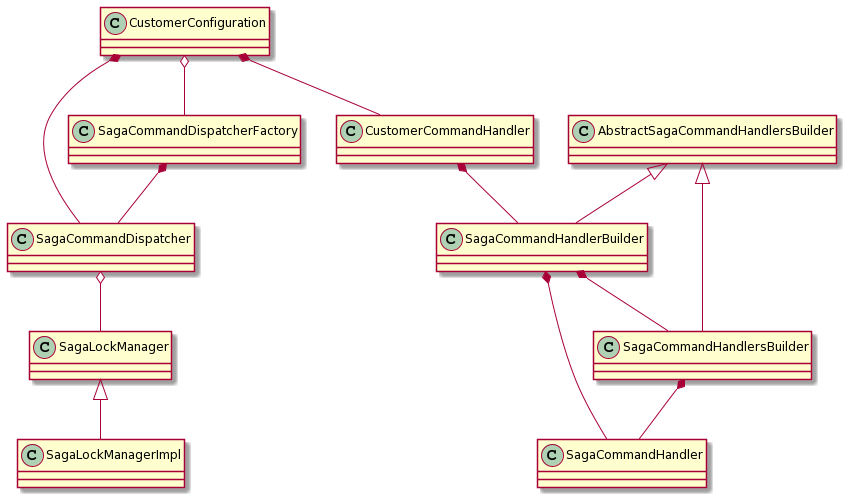
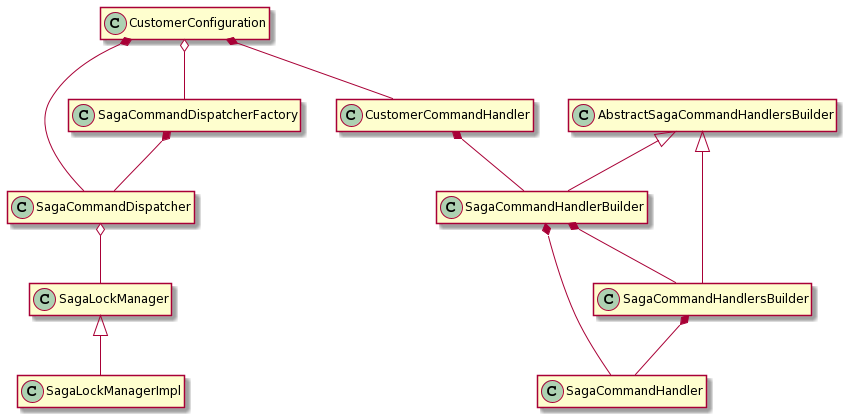
Added reactive participant. Improved diagrams.

diff --git a/eventuate-tram-sagas-reactive-participant/src/main/java/io/eventuate/tram/sagas/reactive/participant/ReactiveSagaCommandDispatcher.java b/eventuate-tram-sagas-reactive-participant/src/main/java/io/eventuate/tram/sagas/reactive/participant/ReactiveSagaCommandDispatcher.java
@@ -1,0 +1,141 @@
+package io.eventuate.tram.sagas.reactive.participant;
+
+import io.eventuate.tram.commands.common.CommandMessageHeaders;
+import io.eventuate.tram.commands.consumer.CommandHandlerParams;
+import io.eventuate.tram.commands.consumer.CommandMessage;
+import io.eventuate.tram.commands.consumer.PathVariables;
+import io.eventuate.tram.consumer.common.reactive.ReactiveMessageConsumer;
+import io.eventuate.tram.messaging.common.Message;
+import io.eventuate.tram.messaging.producer.MessageBuilder;
+import io.eventuate.tram.reactive.commands.consumer.ReactiveCommandDispatcher;
+import io.eventuate.tram.reactive.commands.consumer.ReactiveCommandHandler;
+import io.eventuate.tram.reactive.commands.consumer.ReactiveCommandHandlers;
+import io.eventuate.tram.reactive.messaging.producer.common.ReactiveMessageProducer;
+import io.eventuate.tram.sagas.common.*;
+import io.eventuate.tram.sagas.participant.SagaReplyMessage;
+import io.eventuate.tram.sagas.reactive.common.ReactiveSagaLockManager;
+import org.reactivestreams.Publisher;
+import reactor.core.publisher.Mono;
+
+import java.util.Collections;
+import java.util.List;
+import java.util.Optional;
+import java.util.stream.Collectors;
+
+public class ReactiveSagaCommandDispatcher extends ReactiveCommandDispatcher {
+
+  private ReactiveSagaLockManager sagaLockManager;
+
+  public ReactiveSagaCommandDispatcher(String commandDispatcherId,
+                                       ReactiveCommandHandlers target,
+                                       ReactiveMessageConsumer messageConsumer,
+                                       ReactiveMessageProducer messageProducer,
+                                       ReactiveSagaLockManager sagaLockManager) {
+    super(commandDispatcherId, target, messageConsumer, messageProducer);
+
+    this.sagaLockManager = sagaLockManager;
+  }
+
+  @Override
+  public Publisher<?> messageHandler(Message message) {
+    if (isUnlockMessage(message)) {
+      String sagaId = getSagaId(message);
+      String target = message.getRequiredHeader(CommandMessageHeaders.RESOURCE);
+      return sagaLockManager.unlock(sagaId, target).map(m -> super.messageHandler(message));
+    } else {
+        return Mono
+                .from(super.messageHandler(message))
+                .map(o -> (Object) o)
+                .onErrorResume(StashMessageRequiredException.class, e -> {
+                  String sagaType = getSagaType(message);
+                  String sagaId = getSagaId(message);
+                  String target = e.getTarget();
+                  return sagaLockManager.stashMessage(sagaType, sagaId, target, message);
+                });
+    }
+  }
+
+  private String getSagaId(Message message) {
+    return message.getRequiredHeader(SagaCommandHeaders.SAGA_ID);
+  }
+
+  private String getSagaType(Message message) {
+    return message.getRequiredHeader(SagaCommandHeaders.SAGA_TYPE);
+  }
+
+
+  @Override
+  protected Publisher<List<Message>> invoke(ReactiveCommandHandler commandHandler, CommandMessage cm, CommandHandlerParams commandHandlerParams) {
+    Optional<String> lockedTarget = Optional.empty();
+
+    Mono<List<Message>> result = Mono.just(Collections.emptyList());
+
+    if (commandHandler instanceof ReactiveSagaCommandHandler) {
+      ReactiveSagaCommandHandler sch = (ReactiveSagaCommandHandler) commandHandler;
+      if (sch.getPreLock().isPresent()) {
+        LockTarget lockTarget = sch.getPreLock().get().apply(cm, new PathVariables(commandHandlerParams.getPathVars()));
+        Message message = cm.getMessage();
+        String sagaType = getSagaType(message);
+        String sagaId = getSagaId(message);
+        String target = lockTarget.getTarget();
+        lockedTarget = Optional.of(target);
+
+        result = result.flatMap(messages ->
+          sagaLockManager
+                  .claimLock(sagaType, sagaId, target)
+                  .flatMap(locked -> {
+                    if (!locked) return Mono.error(new StashMessageRequiredException(target));
+                    else return Mono.just(messages);
+                  }));
+      }
+    }
+
+    result = result.flatMap(messages -> Mono.from(super.invoke(commandHandler, cm, commandHandlerParams)));
+
+    if (lockedTarget.isPresent())
+      return addLockedHeader(result, lockedTarget.get());
+    else {
+      Mono<LockTarget> lock = getLock(result);
+
+      return result.flatMap(messages ->
+        lock
+                .flatMap(lt -> {
+                  Message message = cm.getMessage();
+                  String sagaType = getSagaType(message);
+                  String sagaId = getSagaId(message);
+                  return sagaLockManager
+                          .claimLock(sagaType, sagaId, lt.getTarget())
+                          .flatMap(locked -> {
+                            if (locked) return addLockedHeader(Mono.just(messages), lt.getTarget());
+                            else return Mono.error(new RuntimeException("Cannot claim lock"));
+                          });
+                })
+                .switchIfEmpty(Mono.just(messages)));
+    }
+  }
+
+  private Mono<LockTarget> getLock(Mono<List<Message>> messages) {
+    return messages.flatMap(msgs -> {
+      Optional<LockTarget> lockTarget = msgs
+              .stream()
+              .filter(m -> m instanceof SagaReplyMessage && ((SagaReplyMessage) m).hasLockTarget())
+              .findFirst()
+              .flatMap(m -> ((SagaReplyMessage)m).getLockTarget());
+
+      return Mono.justOrEmpty(lockTarget);
+    });
+  }
+
+  private Mono<List<Message>> addLockedHeader(Mono<List<Message>> messages, String lockedTarget) {
+    return messages
+            .map(msgs -> msgs
+                    .stream()
+                    .map(m -> MessageBuilder.withMessage(m).withHeader(SagaReplyHeaders.REPLY_LOCKED, lockedTarget).build())
+                    .collect(Collectors.toList()));
+  }
+
+  private boolean isUnlockMessage(Message message) {
+    return message.getRequiredHeader(CommandMessageHeaders.COMMAND_TYPE).equals(SagaUnlockCommand.class.getName());
+  }
+
+}

diff --git a/eventuate-tram-sagas-reactive-participant/src/main/java/io/eventuate/tram/sagas/reactive/participant/ReactiveSagaCommandHandlersBuilder.java b/eventuate-tram-sagas-reactive-participant/src/main/java/io/eventuate/tram/sagas/reactive/participant/ReactiveSagaCommandHandlersBuilder.java
@@ -1,0 +1,54 @@
+package io.eventuate.tram.sagas.reactive.participant;
+
+
+import io.eventuate.tram.commands.consumer.CommandMessage;
+import io.eventuate.tram.messaging.common.Message;
+import io.eventuate.tram.reactive.commands.consumer.ReactiveCommandHandler;
+import io.eventuate.tram.reactive.commands.consumer.ReactiveCommandHandlers;
+import org.reactivestreams.Publisher;
+import reactor.core.publisher.Mono;
+
+import java.util.ArrayList;
+import java.util.Collections;
+import java.util.List;
+import java.util.function.Function;
+
+public class ReactiveSagaCommandHandlersBuilder implements AbstractReactiveSagaCommandHandlersBuilder {
+  private String channel;
+
+  private List<ReactiveCommandHandler> handlers = new ArrayList<>();
+
+  public static ReactiveSagaCommandHandlersBuilder fromChannel(String channel) {
+    return new ReactiveSagaCommandHandlersBuilder().andFromChannel(channel);
+  }
+
+  private ReactiveSagaCommandHandlersBuilder andFromChannel(String channel) {
+    this.channel = channel;
+    return this;
+  }
+
+  @Override
+  public <C> ReactiveSagaCommandHandlerBuilder<C> onMessageReturningMessages(Class<C> commandClass,
+                                                                             Function<CommandMessage<C>, Publisher<List<Message>>> handler) {
+    ReactiveSagaCommandHandler h = new ReactiveSagaCommandHandler(channel, commandClass, handler);
+    this.handlers.add(h);
+    return new ReactiveSagaCommandHandlerBuilder<C>(this, h);
+  }
+
+  @Override
+  public <C> ReactiveSagaCommandHandlerBuilder<C> onMessage(Class<C> commandClass,
+                                                            Function<CommandMessage<C>, Publisher<Message>> handler) {
+    ReactiveSagaCommandHandler h = new ReactiveSagaCommandHandler(channel, commandClass, (c) ->
+            Mono
+                    .from(handler.apply(c))
+                    .map(Collections::singletonList)
+                    .switchIfEmpty(Mono.just(Collections.emptyList())));
+
+    this.handlers.add(h);
+    return new ReactiveSagaCommandHandlerBuilder<C>(this, h);
+  }
+
+  public ReactiveCommandHandlers build() {
+    return new ReactiveCommandHandlers(handlers);
+  }
+}

diff --git a/eventuate-tram-sagas-reactive-participant/src/main/java/io/eventuate/tram/sagas/reactive/participant/ReactiveSagaCommandHandlerBuilder.java b/eventuate-tram-sagas-reactive-participant/src/main/java/io/eventuate/tram/sagas/reactive/participant/ReactiveSagaCommandHandlerBuilder.java
@@ -1,0 +1,49 @@
+package io.eventuate.tram.sagas.reactive.participant;
+
+import io.eventuate.tram.commands.consumer.CommandMessage;
+import io.eventuate.tram.commands.consumer.PathVariables;
+import io.eventuate.tram.messaging.common.Message;
+import io.eventuate.tram.reactive.commands.consumer.ReactiveCommandHandlers;
+import io.eventuate.tram.sagas.common.LockTarget;
+import io.eventuate.tram.sagas.participant.PostLockFunction;
+import org.reactivestreams.Publisher;
+
+import java.util.List;
+import java.util.function.BiFunction;
+import java.util.function.Function;
+
+public class ReactiveSagaCommandHandlerBuilder<C> implements AbstractReactiveSagaCommandHandlersBuilder {
+  private final ReactiveSagaCommandHandlersBuilder parent;
+  private final ReactiveSagaCommandHandler h;
+
+  public ReactiveSagaCommandHandlerBuilder(ReactiveSagaCommandHandlersBuilder parent, ReactiveSagaCommandHandler h) {
+    super();
+    this.parent = parent;
+    this.h = h;
+  }
+
+  @Override
+  public <C> ReactiveSagaCommandHandlerBuilder<C> onMessageReturningMessages(Class<C> commandClass, Function<CommandMessage<C>, Publisher<List<Message>>> handler) {
+    return parent.onMessageReturningMessages(commandClass, handler);
+  }
+
+
+  @Override
+  public <C> ReactiveSagaCommandHandlerBuilder<C> onMessage(Class<C> commandClass, Function<CommandMessage<C>, Publisher<Message>> handler) {
+    return parent.onMessage(commandClass, handler);
+  }
+
+  public ReactiveSagaCommandHandlerBuilder<C> withPreLock(BiFunction<CommandMessage<C>, PathVariables, LockTarget> preLock) {
+    h.setPreLock(preLock::apply);
+    return this;
+  }
+
+  public ReactiveSagaCommandHandlerBuilder<C> withPostLock(PostLockFunction<C> postLock) {
+    h.setPostLock(postLock::apply);
+    return this;
+  }
+
+  public ReactiveCommandHandlers build() {
+    return parent.build();
+  }
+}

diff --git a/eventuate-tram-sagas-reactive-participant/src/main/java/io/eventuate/tram/sagas/reactive/participant/ReactiveSagaCommandHandler.java b/eventuate-tram-sagas-reactive-participant/src/main/java/io/eventuate/tram/sagas/reactive/participant/ReactiveSagaCommandHandler.java
@@ -1,0 +1,45 @@
+package io.eventuate.tram.sagas.reactive.participant;
+
+import io.eventuate.tram.commands.consumer.CommandMessage;
+import io.eventuate.tram.commands.consumer.PathVariables;
+import io.eventuate.tram.messaging.common.Message;
+import io.eventuate.tram.reactive.commands.consumer.ReactiveCommandHandler;
+import io.eventuate.tram.sagas.common.LockTarget;
+import io.eventuate.tram.sagas.participant.PostLockFunction;
+import org.reactivestreams.Publisher;
+
+import java.util.List;
+import java.util.Optional;
+import java.util.function.BiFunction;
+import java.util.function.Function;
+
+public class ReactiveSagaCommandHandler extends ReactiveCommandHandler {
+
+
+  private Optional<BiFunction<CommandMessage, PathVariables, LockTarget>> preLock = Optional.empty();
+  private Optional<PostLockFunction> postLock = Optional.empty();
+
+  public <C> ReactiveSagaCommandHandler(String channel, String resource, Class<C> commandClass, BiFunction<CommandMessage<C>, PathVariables, Publisher<List<Message>>> handler) {
+    super(channel, Optional.of(resource), commandClass, handler);
+  }
+
+  public <C> ReactiveSagaCommandHandler(String channel, Class<C> commandClass, Function<CommandMessage<C>, Publisher<List<Message>>> handler) {
+    super(channel, Optional.empty(), commandClass, (c, pv) -> handler.apply(c));
+  }
+
+  public void setPreLock(BiFunction<CommandMessage, PathVariables, LockTarget> preLock) {
+    this.preLock = Optional.of(preLock);
+  }
+
+  public void setPostLock(PostLockFunction postLock) {
+    this.postLock = Optional.of(postLock);
+  }
+
+  public Optional<BiFunction<CommandMessage, PathVariables, LockTarget>> getPreLock() {
+    return preLock;
+  }
+
+  public Optional<PostLockFunction> getPostLock() {
+    return postLock;
+  }
+}

diff --git a/eventuate-tram-sagas-spring-reactive-participant/src/main/java/io/eventuate/tram/sagas/spring/reactive/participant/SagaParticipantConfiguration.java b/eventuate-tram-sagas-spring-reactive-participant/src/main/java/io/eventuate/tram/sagas/spring/reactive/participant/SagaParticipantConfiguration.java
@@ -1,0 +1,21 @@
+package io.eventuate.tram.sagas.spring.reactive.participant;
+
+import io.eventuate.tram.consumer.common.reactive.ReactiveMessageConsumer;
+import io.eventuate.tram.reactive.messaging.producer.common.ReactiveMessageProducer;
+import io.eventuate.tram.sagas.reactive.common.ReactiveSagaLockManager;
+import io.eventuate.tram.sagas.reactive.participant.ReactiveSagaCommandDispatcherFactory;
+import io.eventuate.tram.sagas.spring.reactive.common.EventuateReactiveTramSagaCommonConfiguration;
+import org.springframework.context.annotation.Bean;
+import org.springframework.context.annotation.Configuration;
+import org.springframework.context.annotation.Import;
+
+@Configuration
+@Import(EventuateReactiveTramSagaCommonConfiguration.class)
+public class SagaParticipantConfiguration {
+  @Bean
+  public ReactiveSagaCommandDispatcherFactory sagaCommandDispatcherFactory(ReactiveMessageConsumer messageConsumer,
+                                                                           ReactiveMessageProducer messageProducer,
+                                                                           ReactiveSagaLockManager sagaLockManager) {
+    return new ReactiveSagaCommandDispatcherFactory(messageConsumer, messageProducer, sagaLockManager);
+  }
+}

diff --git a/eventuate-tram-sagas-reactive-participant/src/main/java/io/eventuate/tram/sagas/reactive/participant/ReactiveSagaCommandDispatcherFactory.java b/eventuate-tram-sagas-reactive-participant/src/main/java/io/eventuate/tram/sagas/reactive/participant/ReactiveSagaCommandDispatcherFactory.java
@@ -1,0 +1,23 @@
+package io.eventuate.tram.sagas.reactive.participant;
+
+import io.eventuate.tram.consumer.common.reactive.ReactiveMessageConsumer;
+import io.eventuate.tram.reactive.commands.consumer.ReactiveCommandHandlers;
+import io.eventuate.tram.reactive.messaging.producer.common.ReactiveMessageProducer;
+import io.eventuate.tram.sagas.reactive.common.ReactiveSagaLockManager;
+
+public class ReactiveSagaCommandDispatcherFactory {
+
+  private final ReactiveMessageConsumer messageConsumer;
+  private final ReactiveMessageProducer messageProducer;
+  private final ReactiveSagaLockManager sagaLockManager;
+
+  public ReactiveSagaCommandDispatcherFactory(ReactiveMessageConsumer messageConsumer, ReactiveMessageProducer messageProducer, ReactiveSagaLockManager sagaLockManager) {
+    this.messageConsumer = messageConsumer;
+    this.messageProducer = messageProducer;
+    this.sagaLockManager = sagaLockManager;
+  }
+
+  public ReactiveSagaCommandDispatcher make(String commandDispatcherId, ReactiveCommandHandlers target) {
+    return new ReactiveSagaCommandDispatcher(commandDispatcherId, target, messageConsumer, messageProducer, sagaLockManager);
+  }
+}

diff --git a/eventuate-tram-sagas-reactive-participant/src/main/java/io/eventuate/tram/sagas/reactive/participant/AbstractReactiveSagaCommandHandlersBuilder.java b/eventuate-tram-sagas-reactive-participant/src/main/java/io/eventuate/tram/sagas/reactive/participant/AbstractReactiveSagaCommandHandlersBuilder.java
@@ -1,0 +1,16 @@
+package io.eventuate.tram.sagas.reactive.participant;
+
+import io.eventuate.tram.commands.consumer.CommandMessage;
+import io.eventuate.tram.messaging.common.Message;
+import org.reactivestreams.Publisher;
+
+import java.util.List;
+import java.util.function.Function;
+
+public interface AbstractReactiveSagaCommandHandlersBuilder {
+  <C> ReactiveSagaCommandHandlerBuilder<C> onMessageReturningMessages(Class<C> commandClass,
+                                                                      Function<CommandMessage<C>, Publisher<List<Message>>> handler);
+
+  <C> ReactiveSagaCommandHandlerBuilder<C> onMessage(Class<C> commandClass,
+                                                     Function<CommandMessage<C>, Publisher<Message>> handler);
+}

diff --git a/eventuate-tram-sagas-spring-reactive-common/src/main/java/io/eventuate/tram/sagas/spring/reactive/common/EventuateReactiveTramSagaCommonConfiguration.java b/eventuate-tram-sagas-spring-reactive-common/src/main/java/io/eventuate/tram/sagas/spring/reactive/common/EventuateReactiveTramSagaCommonConfiguration.java
@@ -11,7 +11,7 @@ import org.springframework.context.annotation.Import;
 
 @Configuration
 @Import(EventuateCommonReactiveDatabaseConfiguration.class)
-public class EventuateTramSagaCommonConfiguration {
+public class EventuateReactiveTramSagaCommonConfiguration {
 
   @Bean
   public ReactiveSagaLockManager sagaLockManager(EventuateReactiveJdbcStatementExecutor eventuateJdbcStatementExecutor,

diff --git a/eventuate-tram-sagas-spring-reactive-common/src/test/java/io/eventuate/tram/sagas/spring/reactive/common/ReactiveSagaLockManagerIntegrationTestConfiguration.java b/eventuate-tram-sagas-spring-reactive-common/src/test/java/io/eventuate/tram/sagas/spring/reactive/common/ReactiveSagaLockManagerIntegrationTestConfiguration.java
@@ -6,6 +6,6 @@ import org.springframework.context.annotation.Import;
 
 @Configuration
 @EnableAutoConfiguration
-@Import(EventuateTramSagaCommonConfiguration.class)
+@Import(EventuateReactiveTramSagaCommonConfiguration.class)
 public class ReactiveSagaLockManagerIntegrationTestConfiguration {
 }
